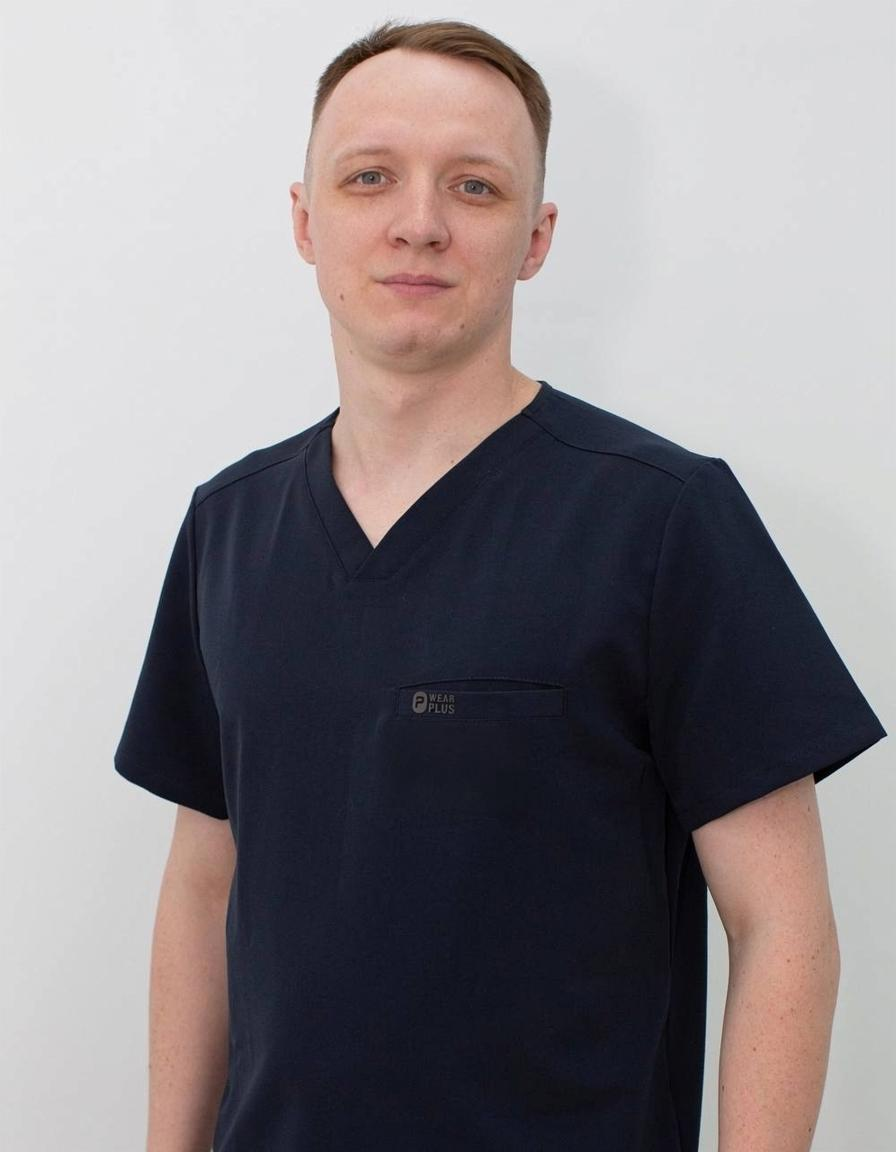
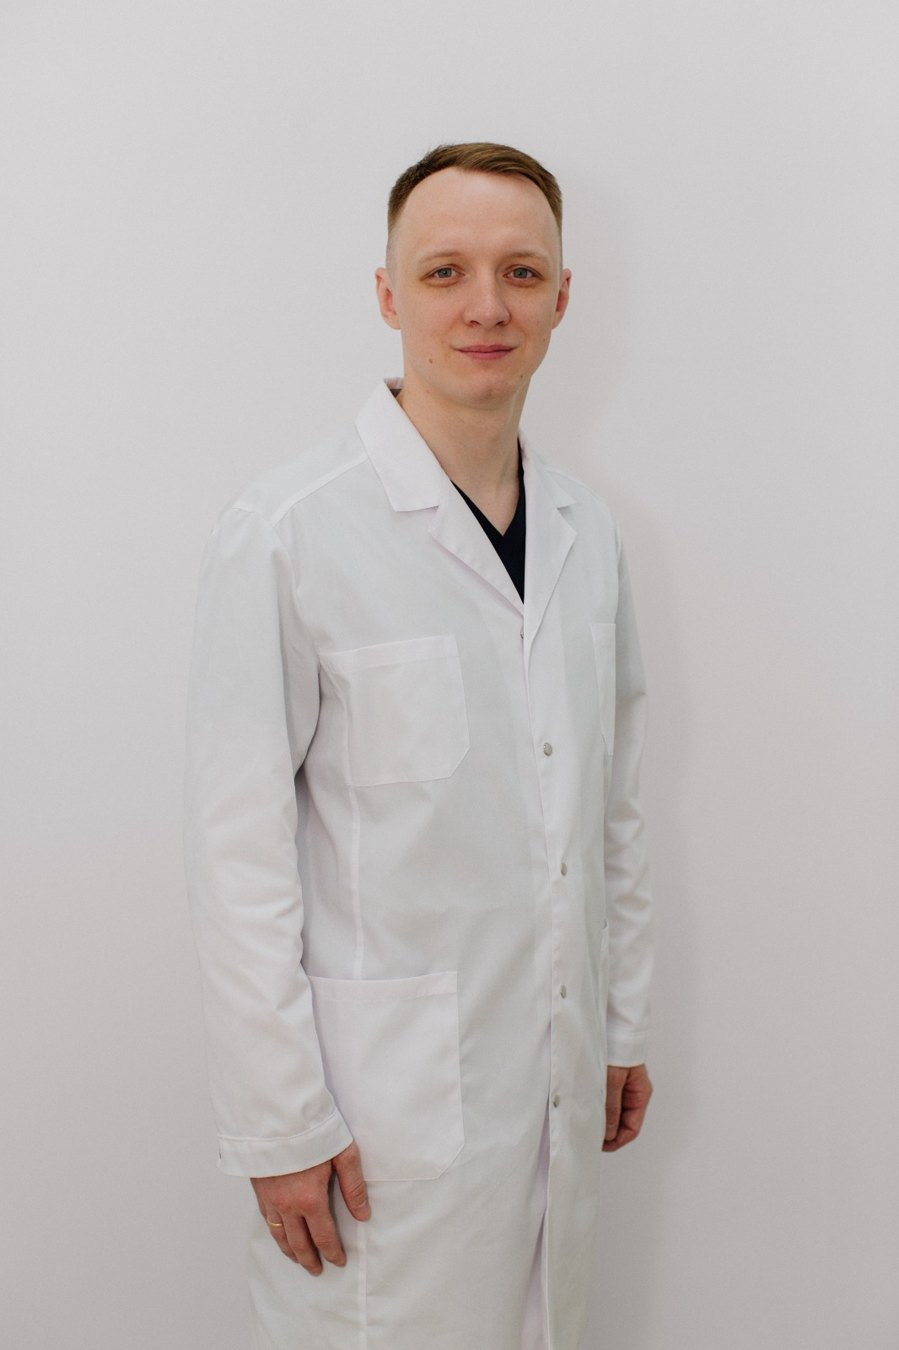
Редизайн по комментариям дизайнера
- Шрифт Inter везде (убран Playfair Display)
- Новое фото врача в белом халате на первом экране (светлое, располагающее)
- Плашка '7+ лет' крупнее и заметнее
- Все эмодзи заменены на однотонные линейные SVG-иконки (Lucide-стиль)

Не выложено в main — ожидает оценки дизайнера/врача.

diff --git a/site/index.html b/site/index.html
@@ -15,7 +15,7 @@
 
 <link rel="preconnect" href="https://fonts.googleapis.com" />
 <link rel="preconnect" href="https://fonts.gstatic.com" crossorigin />
-<link href="https://fonts.googleapis.com/css2?family=Playfair+Display:wght@500;600;700;800&family=Inter:wght@400;500;600;700&display=swap" rel="stylesheet" />
+<link href="https://fonts.googleapis.com/css2?family=Inter:wght@400;500;600;700;800;900&display=swap" rel="stylesheet" />
 
 <style>
 :root{
@@ -48,7 +48,7 @@ body{
   -webkit-font-smoothing:antialiased;
   overflow-x:hidden;
 }
-h1,h2,h3,.serif{font-family:'Playfair Display',Georgia,serif}
+h1,h2,h3,.serif{font-family:'Inter',system-ui,sans-serif;letter-spacing:-.02em}
 a{color:inherit;text-decoration:none}
 img{max-width:100%;display:block}
 .container{max-width:var(--maxw);margin:0 auto;padding:0 20px}
@@ -88,11 +88,11 @@ img{max-width:100%;display:block}
 .logo-mark{
   width:40px;height:40px;border-radius:11px;flex:none;
   background:linear-gradient(135deg,var(--blue),var(--navy));
-  display:grid;place-items:center;color:#fff;font-family:'Playfair Display',serif;
+  display:grid;place-items:center;color:#fff;font-family:'Inter',sans-serif;
   font-size:19px;box-shadow:0 6px 14px rgba(15,52,87,.25);
 }
 .logo-text{display:flex;flex-direction:column;line-height:1.1}
-.logo-text b{font-family:'Playfair Display',serif;font-size:17px;color:var(--navy)}
+.logo-text b{font-family:'Inter',sans-serif;font-size:17px;color:var(--navy)}
 .logo-text span{font-size:11px;letter-spacing:.18em;text-transform:uppercase;color:var(--blue);font-weight:600}
 .nav-links{display:flex;align-items:center;gap:30px}
 .nav-links a{font-size:15px;font-weight:500;color:var(--text);transition:.2s}
@@ -134,11 +134,11 @@ img{max-width:100%;display:block}
 .hero-photo .ph svg{width:64px;height:64px;opacity:.5}
 .hero-photo .ph span{font-size:13px;color:var(--muted);max-width:200px}
 .hero-photo .float-card{
-  position:absolute;left:-14px;bottom:24px;background:#fff;border-radius:14px;
-  padding:12px 16px;box-shadow:var(--shadow);display:flex;align-items:center;gap:12px;
+  position:absolute;left:-18px;bottom:28px;background:#fff;border-radius:16px;
+  padding:16px 22px;box-shadow:var(--shadow);display:flex;align-items:center;gap:14px;
 }
-.float-card .fc-num{font-family:'Playfair Display',serif;font-size:26px;font-weight:700;color:var(--blue);line-height:1}
-.float-card small{font-size:12px;color:var(--muted)}
+.float-card .fc-num{font-family:'Inter',sans-serif;font-size:38px;font-weight:800;color:var(--blue);line-height:.95;letter-spacing:-.03em}
+.float-card small{font-size:13.5px;color:var(--text);font-weight:500;line-height:1.25}
 
 /* ---------- RESULTS (До/После) ---------- */
 .results{background:#fff}
@@ -149,7 +149,7 @@ img{max-width:100%;display:block}
 }
 .result-card:hover{transform:translateY(-4px);box-shadow:var(--shadow);border-color:var(--sky-3)}
 .result-head{padding:18px 18px 14px;border-bottom:1px solid var(--sky-2)}
-.result-diag{font-weight:700;color:var(--navy);font-size:17px;font-family:'Playfair Display',serif}
+.result-diag{font-weight:700;color:var(--navy);font-size:17px;font-family:'Inter',sans-serif}
 .result-dur{display:inline-flex;align-items:center;gap:6px;margin-top:8px;font-size:13px;color:var(--blue-dk);background:var(--sky);padding:4px 11px;border-radius:999px;font-weight:600}
 .ba-photos{display:grid;grid-template-columns:1fr 1fr;gap:2px;background:var(--sky-2)}
 .result-photo{aspect-ratio:1/1;display:grid;place-items:center;position:relative;color:#fff;font-weight:700;font-size:13px}
@@ -177,7 +177,7 @@ img{max-width:100%;display:block}
 }
 .regalia-card:hover{border-color:var(--blue);transform:translateY(-3px)}
 .regalia-ico{width:42px;height:42px;border-radius:11px;background:var(--sky);display:grid;place-items:center;margin-bottom:12px;color:var(--blue)}
-.regalia-card b{display:block;color:var(--navy);font-size:15px;font-family:'Playfair Display',serif}
+.regalia-card b{display:block;color:var(--navy);font-size:15px;font-family:'Inter',sans-serif}
 .regalia-card small{color:var(--muted);font-size:13px;display:block;margin-top:4px}
 
 /* ---------- DIRECTIONS ---------- */
@@ -229,7 +229,7 @@ img{max-width:100%;display:block}
 .reviews .section-title{color:#fff}
 .reviews .section-sub{color:#bcd6ea}
 .rating-block{display:flex;align-items:center;justify-content:center;gap:14px;margin-top:24px;flex-wrap:wrap}
-.rating-num{font-family:'Playfair Display',serif;font-size:40px;font-weight:700;color:#fff;line-height:1}
+.rating-num{font-family:'Inter',sans-serif;font-size:40px;font-weight:700;color:#fff;line-height:1}
 .rating-meta{text-align:left}
 .rating-meta .stars{font-size:20px}
 .rating-meta small{display:block;color:#bcd6ea;font-size:13px}
@@ -276,7 +276,7 @@ img{max-width:100%;display:block}
 .adv-list{display:flex;flex-direction:column;gap:18px;margin-top:30px}
 .adv-item{display:flex;gap:16px;align-items:flex-start}
 .adv-ico{width:46px;height:46px;border-radius:12px;background:var(--sky);color:var(--blue);display:grid;place-items:center;flex:none}
-.adv-item b{color:var(--navy);font-size:16px;font-family:'Playfair Display',serif}
+.adv-item b{color:var(--navy);font-size:16px;font-family:'Inter',sans-serif}
 .adv-item p{color:var(--muted);font-size:14px;margin-top:2px}
 .book-card{
   background:linear-gradient(165deg,#fff,#f4fafe);border:1px solid var(--sky-2);
@@ -340,6 +340,18 @@ img{max-width:100%;display:block}
   body{padding-bottom:78px}
   .reviews .slide{grid-template-columns:1fr}
 }
+
+.ico{fill:none;stroke:currentColor;stroke-width:1.7;stroke-linecap:round;stroke-linejoin:round;display:block}
+.b-ico{color:var(--blue);display:flex}
+.b-ico .ico{width:22px;height:22px}
+.a-ico .ico{width:26px;height:26px}
+.regalia-ico .ico{width:22px;height:22px}
+.dir-ico .ico{width:26px;height:26px}
+.adv-ico .ico{width:24px;height:24px}
+.contact-ico .ico{width:21px;height:21px}
+.qual-col h3 .ico{width:22px;height:22px;display:inline-block;vertical-align:-4px;margin-right:4px;color:var(--blue)}
+.result-dur .ico{width:13px;height:13px;display:inline-block;vertical-align:-2px;margin-right:4px}
+.clinic-note .ico{width:17px;height:17px;display:block;flex:none;color:var(--blue);margin-top:1px}
 </style>
 </head>
 <body>
@@ -380,15 +392,15 @@ img{max-width:100%;display:block}
       </div>
       <div class="hero-badges">
         <div class="badge">
-          <span class="b-ico">⭐</span>
+          <span class="b-ico"><svg class="ico" viewBox="0 0 24 24" aria-hidden="true"><path d="M12 3.5l2.6 5.27 5.82.85-4.21 4.1.99 5.8L12 17.77l-5.2 2.75.99-5.8-4.21-4.1 5.82-.85z"/></svg></span>
           <div><b>5.0 <span class="stars">★★★★★</span></b><small>Рейтинг на ПроДокторов</small></div>
         </div>
         <div class="badge">
-          <span class="b-ico">🏥</span>
+          <span class="b-ico"><svg class="ico" viewBox="0 0 24 24" aria-hidden="true"><path d="M4 21h16M6 21V5a2 2 0 0 1 2-2h8a2 2 0 0 1 2 2v16"/><path d="M12 6.5v5M9.5 9h5"/></svg></span>
           <div><b>Главный врач</b><small>МЦ «СМП-Мед»</small></div>
         </div>
         <div class="badge">
-          <span class="b-ico">📺</span>
+          <span class="b-ico"><svg class="ico" viewBox="0 0 24 24" aria-hidden="true"><rect x="2.5" y="7" width="19" height="13.5" rx="2"/><path d="m7.5 7 4.5-4 4.5 4"/></svg></span>
           <div><b>Медэксперт ТВ</b><small>НТВ и Пятый канал</small></div>
         </div>
       </div>
@@ -415,17 +427,17 @@ img{max-width:100%;display:block}
     </div>
     <div class="approach-grid">
       <article class="approach-card reveal">
-        <div class="a-ico">🔍</div>
+        <div class="a-ico"><svg class="ico" viewBox="0 0 24 24" aria-hidden="true"><circle cx="11" cy="11" r="7"/><path d="m21 21-4.3-4.3"/></svg></div>
         <h3>Поиск первопричины</h3>
         <p>Детальное функциональное тестирование, на основе которого составляю индивидуальный план с учётом возраста, особенностей строения тела и образа жизни.</p>
       </article>
       <article class="approach-card reveal">
-        <div class="a-ico">🦴</div>
+        <div class="a-ico"><svg class="ico" viewBox="0 0 24 24" aria-hidden="true"><path d="M12 3v18"/><path d="M8 6.5h8M8 10h8M8 13.5h8M8 17h8"/></svg></div>
         <h3>Безоперационное лечение грыж</h3>
         <p>Персональные программы, которые снимают боль, уменьшают грыжевое выпячивание и укрепляют мышечный корсет — чтобы проблема не возвращалась.</p>
       </article>
       <article class="approach-card reveal">
-        <div class="a-ico">🎯</div>
+        <div class="a-ico"><svg class="ico" viewBox="0 0 24 24" aria-hidden="true"><circle cx="12" cy="12" r="9"/><circle cx="12" cy="12" r="5"/><circle cx="12" cy="12" r="1.6"/></svg></div>
         <h3>Современные методы</h3>
         <p>Сухая игла, мобилизация суставов, дозированная нагрузка и физиотерапия — для быстрого снятия спазма и устойчивого результата.</p>
       </article>
@@ -446,7 +458,7 @@ img{max-width:100%;display:block}
       <article class="result-card reveal">
         <div class="result-head">
           <div class="result-diag">Острая боль в пояснице</div>
-          <span class="result-dur">⏱ Результат за 1 приём</span>
+          <span class="result-dur"><svg class="ico" viewBox="0 0 24 24" aria-hidden="true"><circle cx="12" cy="12" r="8.5"/><path d="M12 7v5.2l3.2 1.8"/></svg> Результат за 1 приём</span>
         </div>
         <div class="ba-photos">
           <div class="result-photo before"><span class="tag">Было</span><div class="ph-ico">📷</div></div>
@@ -461,7 +473,7 @@ img{max-width:100%;display:block}
       <article class="result-card reveal">
         <div class="result-head">
           <div class="result-diag">Травма плеча</div>
-          <span class="result-dur">⏱ 5 месяцев</span>
+          <span class="result-dur"><svg class="ico" viewBox="0 0 24 24" aria-hidden="true"><circle cx="12" cy="12" r="8.5"/><path d="M12 7v5.2l3.2 1.8"/></svg> 5 месяцев</span>
         </div>
         <div class="ba-photos">
           <div class="result-photo before"><img src="cases/shoulder-before.jpg" alt="Травма плеча — до: рука заведена за спину не до конца" loading="lazy"><span class="tag">Было</span></div>
@@ -476,7 +488,7 @@ img{max-width:100%;display:block}
       <article class="result-card reveal">
         <div class="result-head">
           <div class="result-diag">Боль в коленном суставе</div>
-          <span class="result-dur">⏱ Результат с первого приёма</span>
+          <span class="result-dur"><svg class="ico" viewBox="0 0 24 24" aria-hidden="true"><circle cx="12" cy="12" r="8.5"/><path d="M12 7v5.2l3.2 1.8"/></svg> Результат с первого приёма</span>
         </div>
         <div class="ba-photos">
           <div class="result-photo before"><span class="tag">Было</span><div class="ph-ico">📷</div></div>
@@ -491,7 +503,7 @@ img{max-width:100%;display:block}
       <article class="result-card reveal">
         <div class="result-head">
           <div class="result-diag">Пластика ПКС</div>
-          <span class="result-dur">⏱ По плану реабилитации</span>
+          <span class="result-dur"><svg class="ico" viewBox="0 0 24 24" aria-hidden="true"><circle cx="12" cy="12" r="8.5"/><path d="M12 7v5.2l3.2 1.8"/></svg> По плану реабилитации</span>
         </div>
         <div class="ba-photos">
           <div class="result-photo before"><img src="cases/pks-before.jpg" alt="Пластика ПКС — до: с костылём и ортезом" loading="lazy"><span class="tag">Было</span></div>
@@ -506,7 +518,7 @@ img{max-width:100%;display:block}
       <article class="result-card reveal">
         <div class="result-head">
           <div class="result-diag">Перелом бедра</div>
-          <span class="result-dur">⏱ Реабилитация на дому</span>
+          <span class="result-dur"><svg class="ico" viewBox="0 0 24 24" aria-hidden="true"><circle cx="12" cy="12" r="8.5"/><path d="M12 7v5.2l3.2 1.8"/></svg> Реабилитация на дому</span>
         </div>
         <div class="ba-photos">
           <div class="result-photo before"><img src="cases/hip-before.jpg" alt="Перелом бедра — до: передвижение с ходунками" loading="lazy"><span class="tag">Было</span></div>
@@ -521,7 +533,7 @@ img{max-width:100%;display:block}
       <article class="result-card reveal">
         <div class="result-head">
           <div class="result-diag">Шейный отдел после операции</div>
-          <span class="result-dur">⏱ Реабилитация на дому</span>
+          <span class="result-dur"><svg class="ico" viewBox="0 0 24 24" aria-hidden="true"><circle cx="12" cy="12" r="8.5"/><path d="M12 7v5.2l3.2 1.8"/></svg> Реабилитация на дому</span>
         </div>
         <div class="ba-photos">
           <div class="result-photo before"><span class="tag">Было</span><div class="ph-ico">📷</div></div>
@@ -550,32 +562,32 @@ img{max-width:100%;display:block}
     </div>
     <div class="regalia reveal">
       <div class="regalia-card">
-        <div class="regalia-ico">🎖</div>
+        <div class="regalia-ico"><svg class="ico" viewBox="0 0 24 24" aria-hidden="true"><circle cx="12" cy="8.5" r="5.5"/><path d="M8.6 13l-1.3 7.5L12 17.7l4.7 2.8L15.4 13"/></svg></div>
         <b>7+ лет практики</b>
         <small>С 2019 года, опыт военной медицины</small>
       </div>
       <div class="regalia-card">
-        <div class="regalia-ico">🏥</div>
+        <div class="regalia-ico"><svg class="ico" viewBox="0 0 24 24" aria-hidden="true"><path d="M4 21h16M6 21V5a2 2 0 0 1 2-2h8a2 2 0 0 1 2 2v16"/><path d="M12 6.5v5M9.5 9h5"/></svg></div>
         <b>Главный врач</b>
         <small>МЦ «СМП-Мед», Москва</small>
       </div>
       <div class="regalia-card">
-        <div class="regalia-ico">📺</div>
+        <div class="regalia-ico"><svg class="ico" viewBox="0 0 24 24" aria-hidden="true"><rect x="2.5" y="7" width="19" height="13.5" rx="2"/><path d="m7.5 7 4.5-4 4.5 4"/></svg></div>
         <b>Медэксперт ТВ</b>
         <small>НТВ («За гранью») и Пятый канал («Ваше здоровье»)</small>
       </div>
       <div class="regalia-card">
-        <div class="regalia-ico">🎤</div>
+        <div class="regalia-ico"><svg class="ico" viewBox="0 0 24 24" aria-hidden="true"><rect x="9" y="2.5" width="6" height="11" rx="3"/><path d="M5 11a7 7 0 0 0 14 0M12 18v3.5M8.5 21.5h7"/></svg></div>
         <b>Организатор и спикер</b>
         <small>Организатор и спикер мед. конференций, лектор по доврачебной помощи и реабилитации</small>
       </div>
       <div class="regalia-card">
-        <div class="regalia-ico">📱</div>
+        <div class="regalia-ico"><svg class="ico" viewBox="0 0 24 24" aria-hidden="true"><rect x="6.5" y="2" width="11" height="20" rx="2.5"/><path d="M10.5 18.5h3"/></svg></div>
         <b>Разработчик Rehabapp</b>
         <small>Конструктор протоколов реабилитации</small>
       </div>
       <div class="regalia-card">
-        <div class="regalia-ico">⭐</div>
+        <div class="regalia-ico"><svg class="ico" viewBox="0 0 24 24" aria-hidden="true"><path d="M12 3.5l2.6 5.27 5.82.85-4.21 4.1.99 5.8L12 17.77l-5.2 2.75.99-5.8-4.21-4.1 5.82-.85z"/></svg></div>
         <b>Рейтинг 5.0</b>
         <small>Все отзывы на ПроДокторов — пятёрки</small>
       </div>
@@ -594,7 +606,7 @@ img{max-width:100%;display:block}
     <div class="qual-grid">
 
       <div class="qual-col reveal">
-        <h3>🎓 Образование</h3>
+        <h3><svg class="ico" viewBox="0 0 24 24" aria-hidden="true"><path d="M21.5 9.5 12 5 2.5 9.5 12 14z"/><path d="M6 11.5v4.4c0 1.4 2.7 2.6 6 2.6s6-1.2 6-2.6v-4.4"/></svg> Образование</h3>
         <p class="qual-sub">Базовое медицинское образование и ординатура</p>
         <div class="edu-item">
           <b>Военно-медицинская академия им. С.М. Кирова</b>
@@ -613,7 +625,7 @@ img{max-width:100%;display:block}
       </div>
 
       <div class="qual-col reveal">
-        <h3>🛠 Методы и навыки</h3>
+        <h3><svg class="ico" viewBox="0 0 24 24" aria-hidden="true"><path d="M15 6.5a4 4 0 0 0-5.3 5.2L3.5 18 6 20.5l6.3-6.2A4 4 0 0 0 17.5 9l-2.4 2.4-2-.5-.6-2z"/></svg> Методы и навыки</h3>
         <p class="qual-sub">Чем восстанавливаю движение и снимаю боль</p>
         <div class="method-list">
           <span class="method-tag">Функциональное мышечное тестирование</span>
@@ -647,37 +659,37 @@ img{max-width:100%;display:block}
 
       <article class="dir-card featured reveal">
         <span class="dir-tag">Основное</span>
-        <div class="dir-ico">🦴</div>
+        <div class="dir-ico"><svg class="ico" viewBox="0 0 24 24" aria-hidden="true"><path d="M12 3v18"/><path d="M8 6.5h8M8 10h8M8 13.5h8M8 17h8"/></svg></div>
         <h3>Спина и грыжи позвоночника</h3>
         <p>Безоперационное лечение грыж и протрузий, хронические боли в спине и шее. Метод Маккензи, сухая игла, укрепление мышечного корсета.</p>
       </article>
 
       <article class="dir-card reveal">
-        <div class="dir-ico">💪</div>
+        <div class="dir-ico"><svg class="ico" viewBox="0 0 24 24" aria-hidden="true"><path d="M21 12a9 9 0 1 1-2.6-6.3"/><path d="M21 4.5V9h-4.5"/></svg></div>
         <h3>Плечевой сустав</h3>
         <p>Импинджмент-синдром, «замороженное плечо», тендинопатии, травмы вращательной манжеты. Восстановление объёма движений и силы.</p>
       </article>
 
       <article class="dir-card reveal">
-        <div class="dir-ico">🏥</div>
+        <div class="dir-ico"><svg class="ico" viewBox="0 0 24 24" aria-hidden="true"><path d="M4 21h16M6 21V5a2 2 0 0 1 2-2h8a2 2 0 0 1 2 2v16"/><path d="M12 6.5v5M9.5 9h5"/></svg></div>
         <h3>Послеоперационная реабилитация</h3>
         <p>Ведение после эндопротезирования суставов, удаления грыж, артроскопии, пластики ПКС и шва мениска. Поэтапные индивидуальные протоколы.</p>
       </article>
 
       <article class="dir-card reveal">
-        <div class="dir-ico">🏃</div>
+        <div class="dir-ico"><svg class="ico" viewBox="0 0 24 24" aria-hidden="true"><path d="M22 12h-4l-3 8.5L9 3.5 6 12H2"/></svg></div>
         <h3>Спортивная медицина</h3>
         <p>Лечение и реабилитация спортивных травм, безопасное возвращение в спорт после травм и операций, коррекция биомеханики движения.</p>
       </article>
 
       <article class="dir-card reveal">
-        <div class="dir-ico">🏠</div>
+        <div class="dir-ico"><svg class="ico" viewBox="0 0 24 24" aria-hidden="true"><path d="M3 10.5 12 3.5l9 7"/><path d="M5.5 9.7V20h13V9.7"/><path d="M10 20v-5h4v5"/></svg></div>
         <h3>Реабилитация на дому</h3>
         <p>Выезд на дом по Москве — восстановление после инсультов и травм опорно-двигательного аппарата, когда сложно добраться до клиники.</p>
       </article>
 
       <article class="dir-card reveal">
-        <div class="dir-ico">💻</div>
+        <div class="dir-ico"><svg class="ico" viewBox="0 0 24 24" aria-hidden="true"><rect x="3" y="4" width="18" height="13" rx="2"/><path d="M8.5 21h7M12 17v4"/></svg></div>
         <h3>Онлайн-консультации</h3>
         <p>Разбор обследований и МРТ, составление и коррекция индивидуального протокола реабилитации дистанционно.</p>
       </article>
@@ -735,15 +747,15 @@ img{max-width:100%;display:block}
       <p class="section-sub">Очно в Москве, выезд на дом или онлайн. Подберём план восстановления именно под вашу ситуацию.</p>
       <div class="adv-list">
         <div class="adv-item">
-          <div class="adv-ico">✓</div>
+          <div class="adv-ico"><svg class="ico" viewBox="0 0 24 24" aria-hidden="true"><circle cx="12" cy="12" r="9"/><path d="m8.4 12 2.5 2.5 4.7-5"/></svg></div>
           <div><b>Доказательная медицина</b><p>Только методы с подтверждённой эффективностью, без лишних назначений.</p></div>
         </div>
         <div class="adv-item">
-          <div class="adv-ico">🎯</div>
+          <div class="adv-ico"><svg class="ico" viewBox="0 0 24 24" aria-hidden="true"><circle cx="12" cy="12" r="9"/><circle cx="12" cy="12" r="5"/><circle cx="12" cy="12" r="1.6"/></svg></div>
           <div><b>Индивидуальный протокол</b><p>Программа реабилитации под ваш диагноз, этап и образ жизни.</p></div>
         </div>
         <div class="adv-item">
-          <div class="adv-ico">🤝</div>
+          <div class="adv-ico"><svg class="ico" viewBox="0 0 24 24" aria-hidden="true"><circle cx="9" cy="8" r="3.3"/><path d="M3.5 20c0-3.2 2.5-5 5.5-5s5.5 1.8 5.5 5"/><path d="M16 5.2a3.3 3.3 0 0 1 0 6.6"/><path d="M20.5 20c0-2.4-1.3-4-3.5-4.6"/></svg></div>
           <div><b>Сопровождение на каждом этапе</b><p>Контроль динамики и коррекция нагрузки до полного восстановления.</p></div>
         </div>
       </div>
@@ -754,13 +766,13 @@ img{max-width:100%;display:block}
       <p class="bc-sub">Выберите удобный способ связи — отвечаю лично.</p>
 
       <a class="contact-row" href="https://t.me/Doc_Bratus" target="_blank" rel="noopener">
-        <div class="contact-ico tg">✈</div>
+        <div class="contact-ico tg"><svg class="ico" viewBox="0 0 24 24" aria-hidden="true"><path d="M21.5 3 2.5 11l7 2.6M21.5 3l-6 18.5-5.5-7.9M21.5 3 9.5 13.6"/></svg></div>
         <div class="c-meta"><small>Telegram</small><b>@Doc_Bratus</b></div>
         <span>›</span>
       </a>
 
       <a class="contact-row" href="tel:+79657616543">
-        <div class="contact-ico ph">📞</div>
+        <div class="contact-ico ph"><svg class="ico" viewBox="0 0 24 24" aria-hidden="true"><path d="M5 3.5h3.5l2 5-2.4 1.4a12 12 0 0 0 5 5l1.4-2.4 5 2V20a2 2 0 0 1-2 2A16.5 16.5 0 0 1 3 5.5a2 2 0 0 1 2-2Z"/></svg></div>
         <div class="c-meta"><small>Телефон</small><b>+7 965 761-65-43</b></div>
         <span>›</span>
       </a>
@@ -774,20 +786,20 @@ img{max-width:100%;display:block}
       <p class="cb-label">Онлайн-запись в клиниках</p>
 
       <a class="contact-row" href="https://lasalute-clinic.ru/team/bratus-mihail-andreevich" target="_blank" rel="noopener">
-        <div class="contact-ico clinic">🏥</div>
+        <div class="contact-ico clinic"><svg class="ico" viewBox="0 0 24 24" aria-hidden="true"><path d="M4 21h16M6 21V5a2 2 0 0 1 2-2h8a2 2 0 0 1 2 2v16"/><path d="M12 6.5v5M9.5 9h5"/></svg></div>
         <div class="c-meta"><small>МЦ «La Salute» · Таганская</small><b>Записаться онлайн</b></div>
         <span>›</span>
       </a>
 
       <a class="contact-row" href="https://klientiks.ru/app2/OOOSMPMED" target="_blank" rel="noopener">
-        <div class="contact-ico clinic">🏥</div>
+        <div class="contact-ico clinic"><svg class="ico" viewBox="0 0 24 24" aria-hidden="true"><path d="M4 21h16M6 21V5a2 2 0 0 1 2-2h8a2 2 0 0 1 2 2v16"/><path d="M12 6.5v5M9.5 9h5"/></svg></div>
         <div class="c-meta"><small>МЦ «СМП-Мед» · Планерная</small><b>Записаться онлайн</b></div>
         <span>›</span>
       </a>
 
       <a href="https://t.me/Doc_Bratus" target="_blank" rel="noopener" class="btn btn-primary btn-lg">Написать в Telegram</a>
 
-      <p class="clinic-note">📍 <span>Приём: МЦ «СМП-Мед» (ул. Планерная, 7к1 · Старокачаловская, 3к3) и МЦ «La Salute» (Б. Дровяной пер., 4с1, Таганская). Выезд на дом по Москве + онлайн.</span></p>
+      <p class="clinic-note"><svg class="ico" viewBox="0 0 24 24" aria-hidden="true"><path d="M12 21.5S5 16 5 10.5a7 7 0 0 1 14 0C19 16 12 21.5 12 21.5Z"/><circle cx="12" cy="10.5" r="2.5"/></svg> <span>Приём: МЦ «СМП-Мед» (ул. Планерная, 7к1 · Старокачаловская, 3к3) и МЦ «La Salute» (Б. Дровяной пер., 4с1, Таганская). Выезд на дом по Москве + онлайн.</span></p>
     </div>
   </div>
 </section>